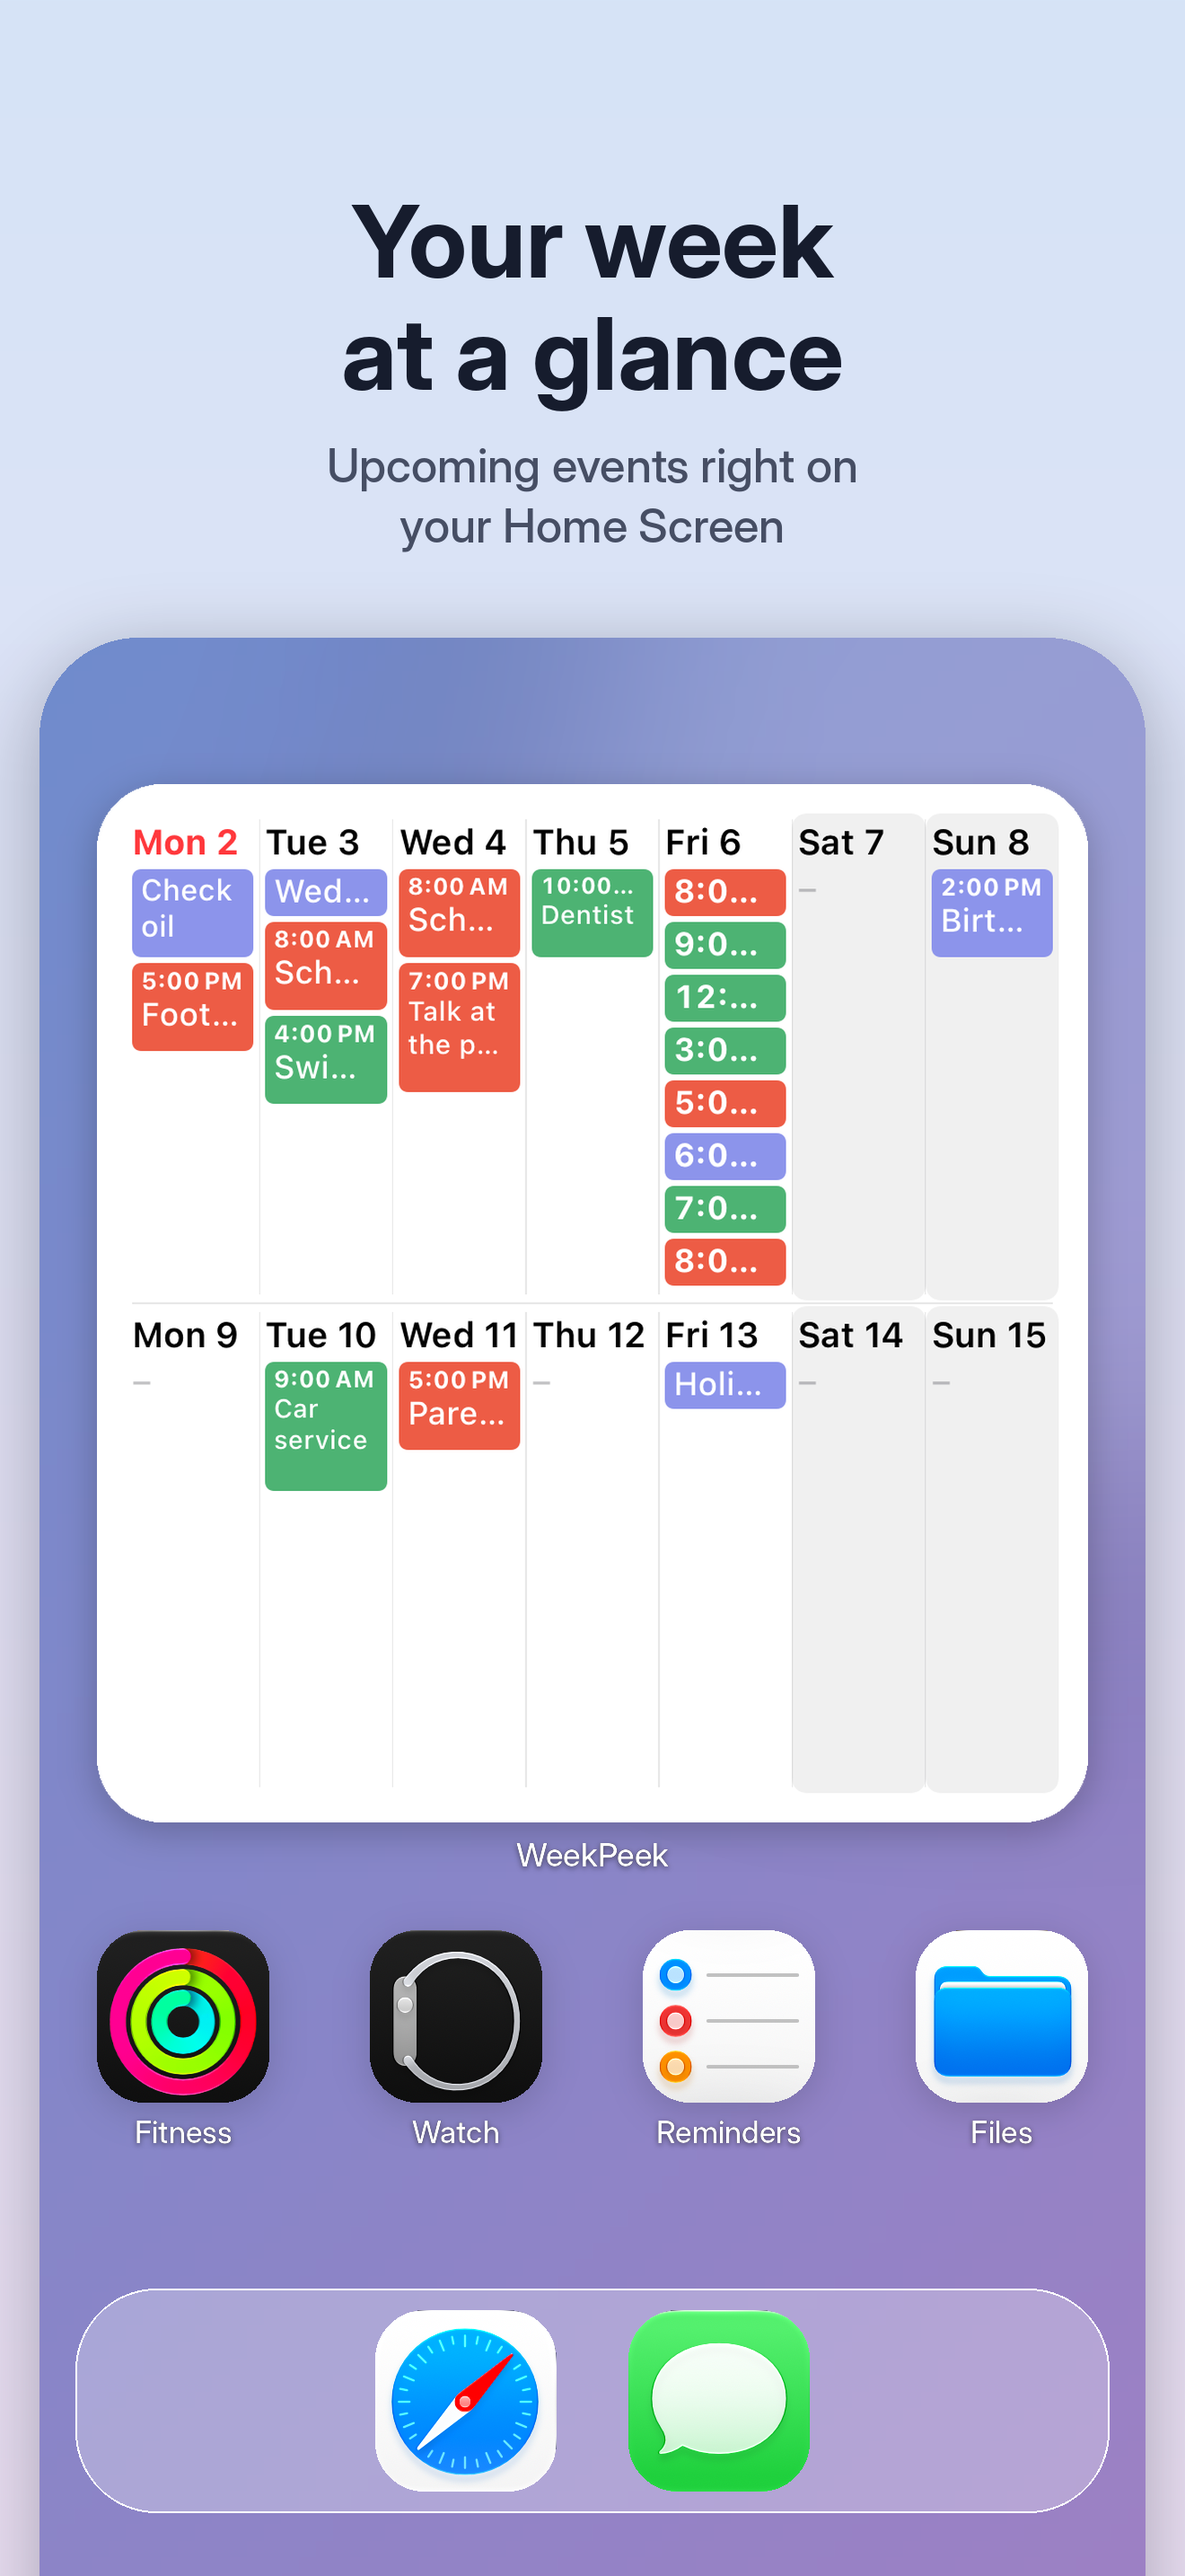
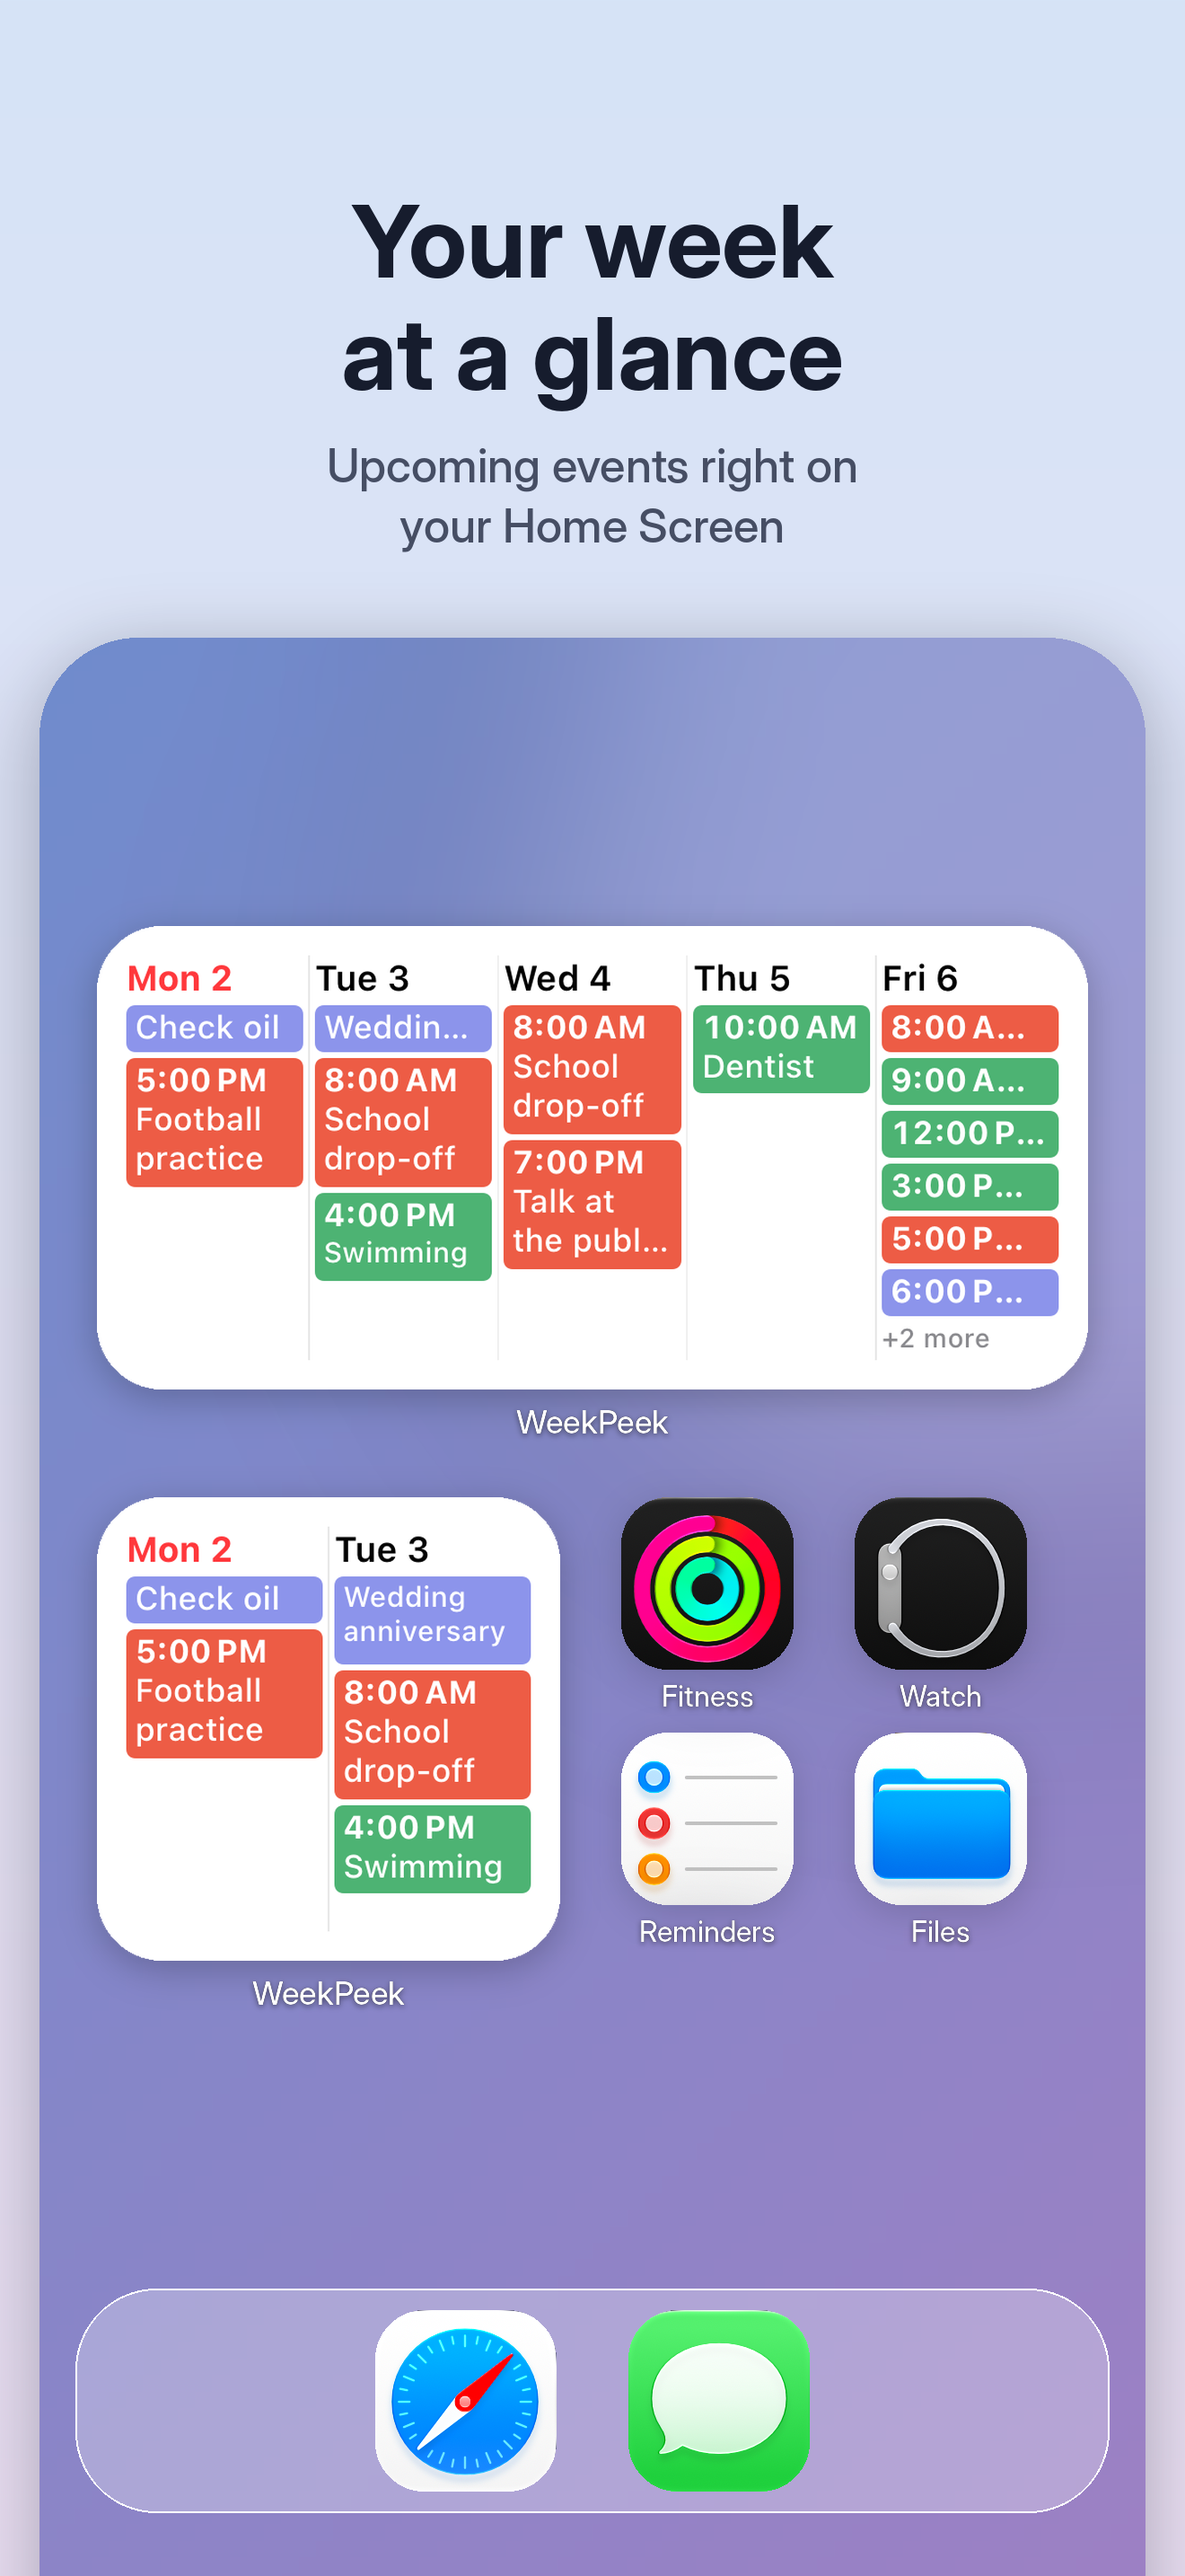
Lead the App Store screenshots with the medium widget
Claude-Session: https://claude.ai/code/session_01VAJTrQ5TsadPSz7xXKVai5

diff --git a/docs/app-store.md b/docs/app-store.md
@@ -78,7 +78,7 @@ Decision: **non-trader**. The app is free with no ads, in-app purchases or subsc
 
 Ready in `docs/appstore/` (6.9" iPhone, 1320 × 2868, sample events only). Headline on a pastel background above a Home Screen: a soft gradient wallpaper, real app icons and dock, and the widgets from the render tests with their "WeekPeek" label.
 
-1. `1-week.png`: Your week at a glance (large widget)
+1. `1-week.png`: Your week at a glance (medium widget, small widget beside app icons)
 2. `2-styles.png`: Light, dark or tinted
 3. `3-yours.png`: Make every widget your own (stripe, 10 days, big text)
 4. `4-languages.png`: Speaks your language (Danish)
